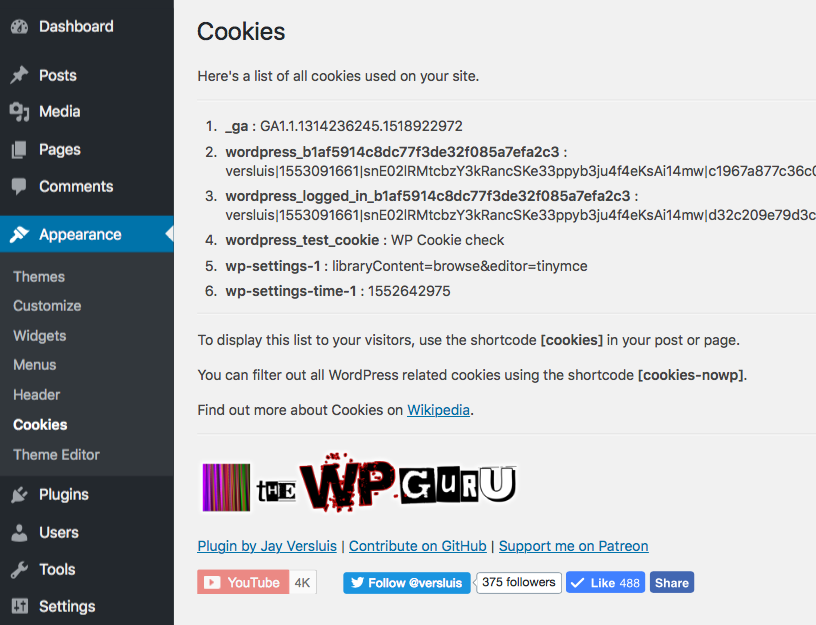
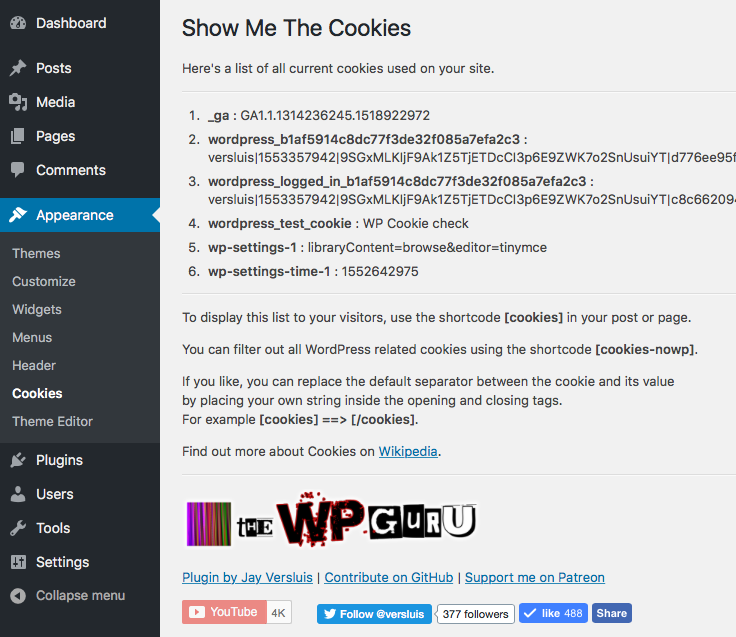
Simplified description in admin interface

Changed region(s): [[0.0, 0.0, 1.0, 1.0], [0.0, 0.0304, 0.1562, 0.0608]]

diff --git a/cookies.php b/cookies.php
@@ -64,7 +64,7 @@ function guru_cookies () {
     <hr>
     <p>To display this list to your visitors, use the shortcode <strong>[cookies]</strong> in your post or page.</p>
     <p>You can filter out all WordPress related cookies using the shortcode <strong>[cookies-nowp]</strong>.</p>
-    <p>If you like, you can replace the default separator between the cookie and its value by placing your own string inside the opening and closing tags.<br>For example <strong>[cookies] ==> [/cookies]</strong> or <strong>[cookies-nowp] contains [/cookies-nowp]</strong> respectively.
+    <p>If you like, you can replace the default separator between the cookie and its value <br>by placing your own string inside the opening and closing tags.<br>For example <strong>[cookies] ==> [/cookies]</strong>.
     <p>Find out more about Cookies on <a href="https://en.wikipedia.org/wiki/HTTP_cookie" target="_blank">Wikipedia</a>.</p> 
     <hr>
     
